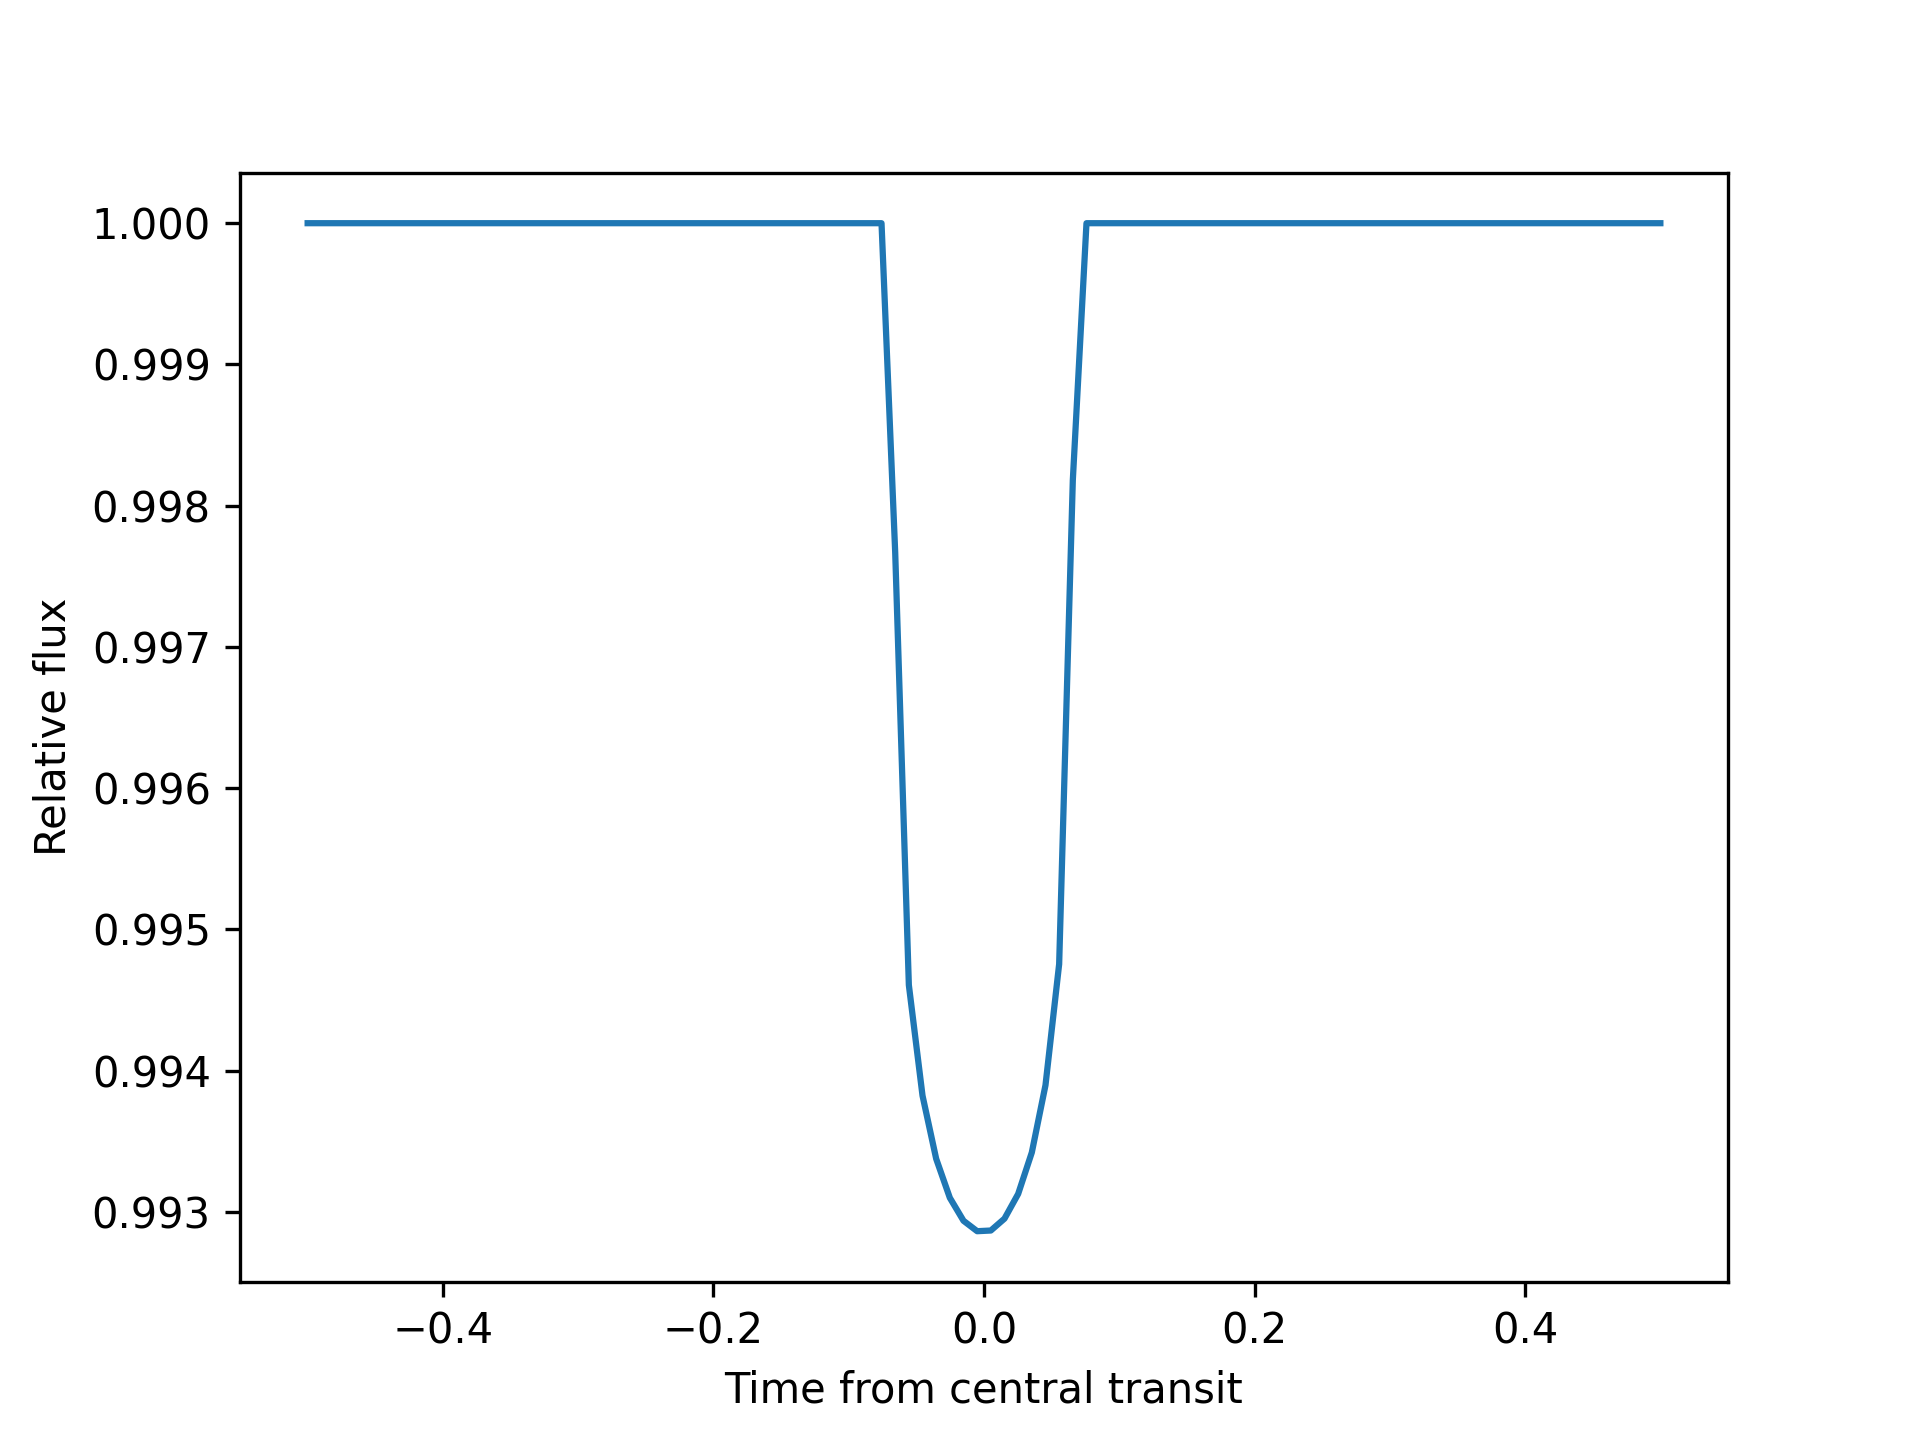
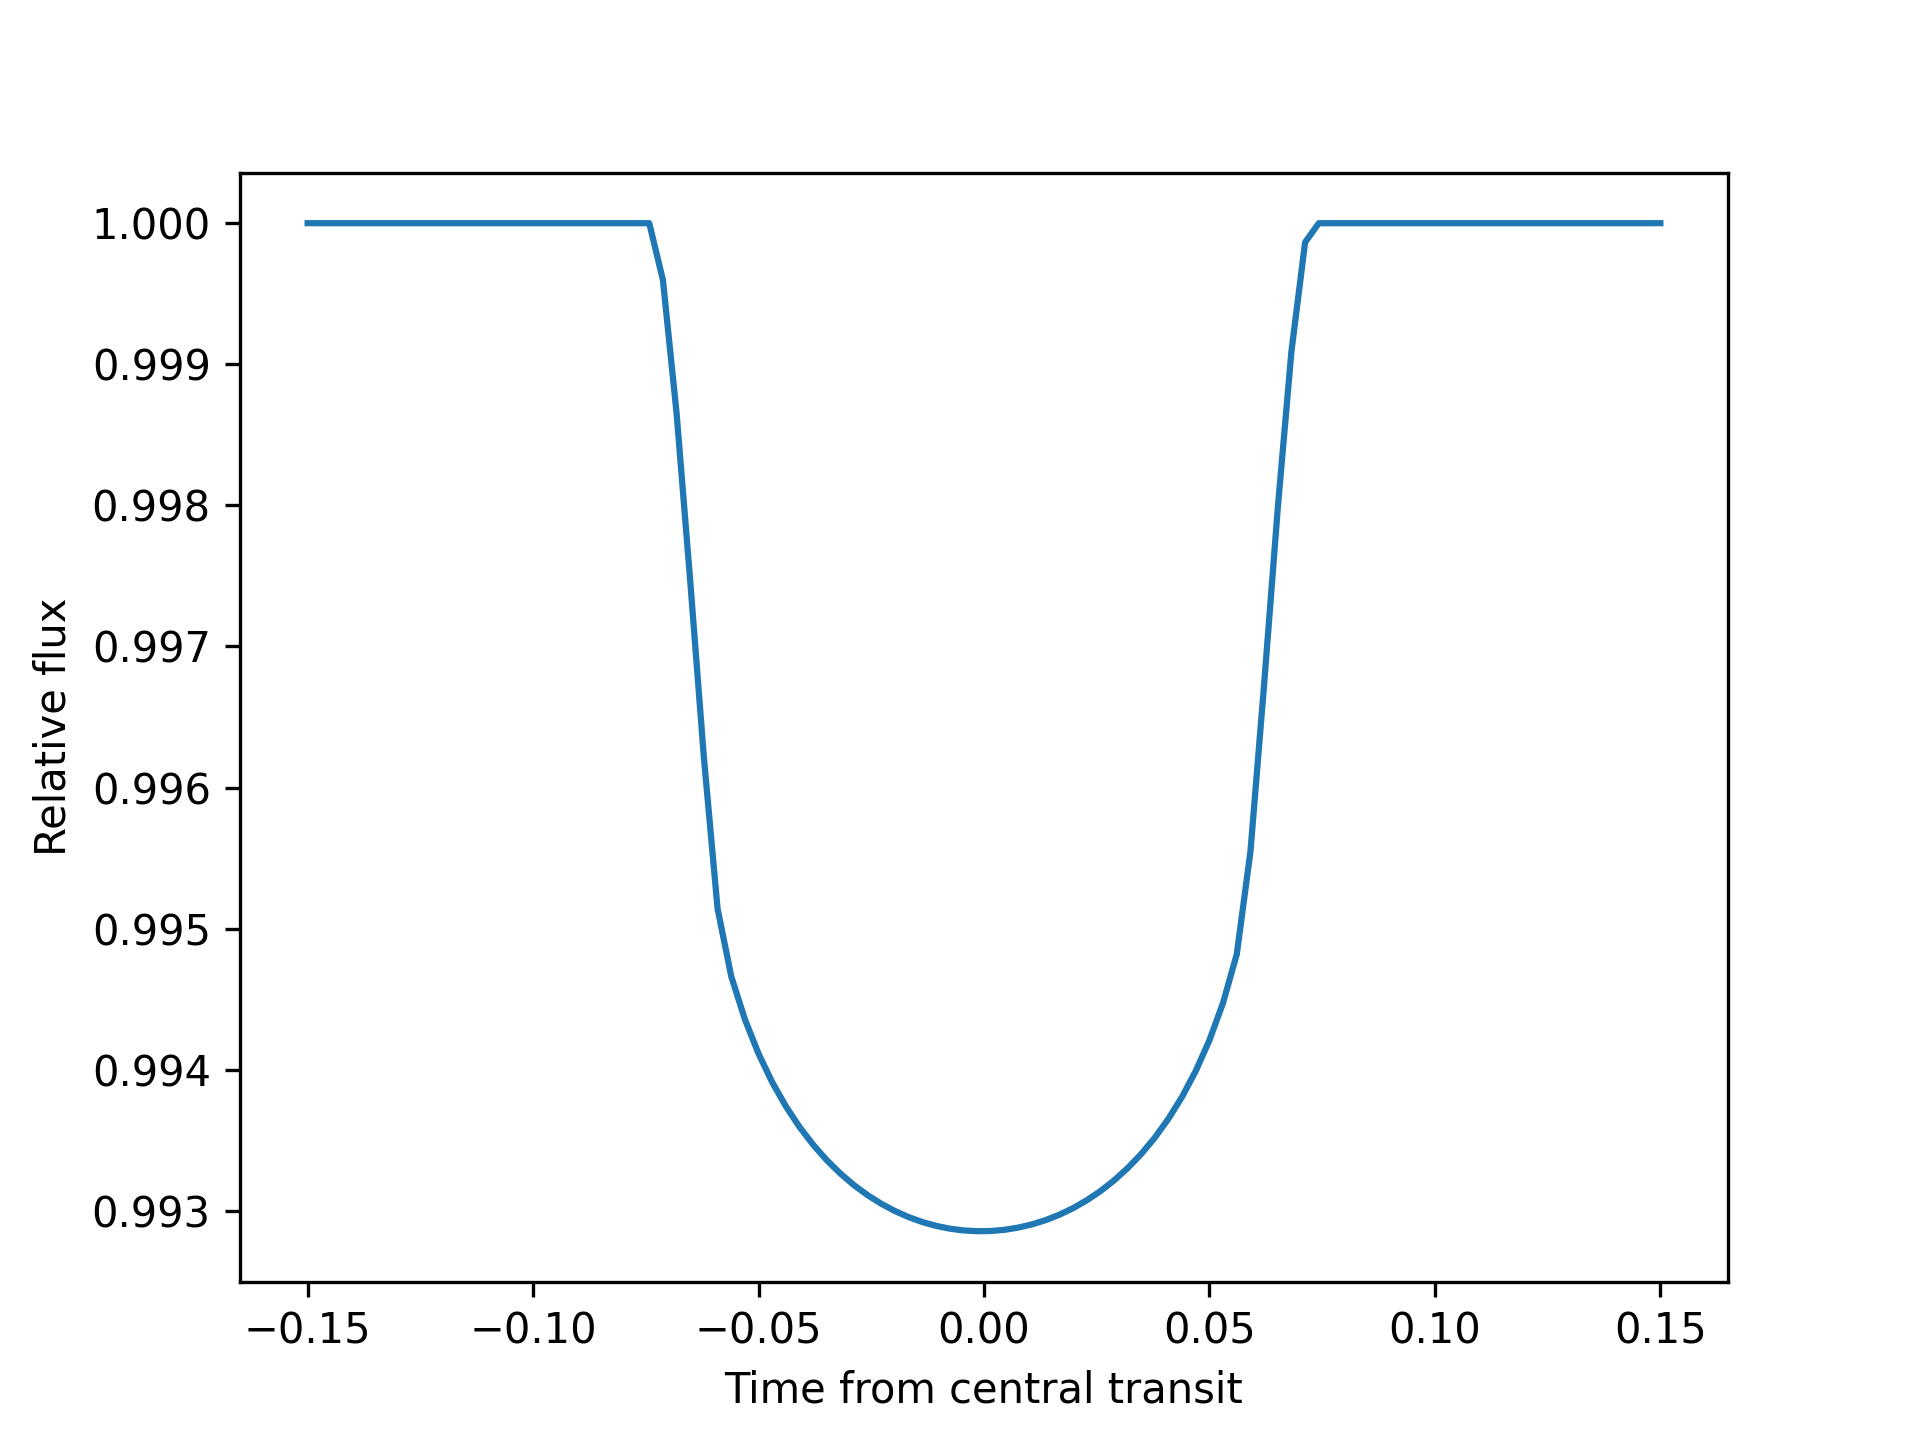
Modificato immagine

diff --git a/src/daneel/detection/transit.py b/src/daneel/detection/transit.py
@@ -1,15 +1,17 @@
-#importo i moduli
+#Importo i moduli
 import numpy as np 
 import matplotlib.pyplot as plt
 import batman 
 
-#definisco i parametri del pianeta K2-287 b dal sito: https://exoplanet.eu/catalog/k2_287_b--7012/
+
+#Definisco i parametri del pianeta K2-287 b dal sito: https://exoplanet.eu/catalog/k2_287_b--7012/
 a = 0.1206         #AU
 au2km = 1.496e8       #km
 star_radius = 1.07    #Rsun
 planet_radius = 0.833  #Rjupiter
 jupiter_radius = 71492 #km
-sun_radius = 695700
+sun_radius = 695700 #km
+
 
 #Limb darkening coefficients da: https://exoctk.stsci.edu/limb_darkening
 try:
@@ -17,11 +19,12 @@ try:
     u1 = np.average(LD_coef[:,8])
     u2 = np.average(LD_coef[:,10])
 except:
-    #calcolati a partire dal file ExoCTK_results.txt
+    #Calcolati a partire dal file ExoCTK_results.txt
     u1 = 0.4237666666666667
     u2 = 0.21503333333333335
 
-#definisco l'oggetto parametri per batman
+
+#Definisco l'oggetto parametri per batman
 parametri = batman.TransitParams()
 parametri.t0 = 0.                       #time of inferior conjunction
 parametri.per = 14.893291                     #orbital period
@@ -34,17 +37,17 @@ parametri.u = [u1, u2]                #limb darkening coefficients [u1, u2]
 parametri.limb_dark = "quadratic"       #limb darkening model
 
 
-#array di tempi per il transito
-t = np.linspace(-0.5, 0.5, 100)
-#modello batman
+#Array di tempi per il transito
+t = np.linspace(-0.15, 0.15, 100)
+
+#Modello batman
 m = batman.TransitModel(parametri, t)    #initializes model
 flux = m.light_curve(parametri)          #calculates light curve
 
 
-#plott e salvataggio immagine
+#Plot e salvataggio immagine
 plt.plot(t, flux)
 plt.xlabel("Time from central transit")
 plt.ylabel("Relative flux")
-
 plt.savefig('K2-287_b_assignment1_taskF.png', format='png', dpi=300)
 plt.show()
